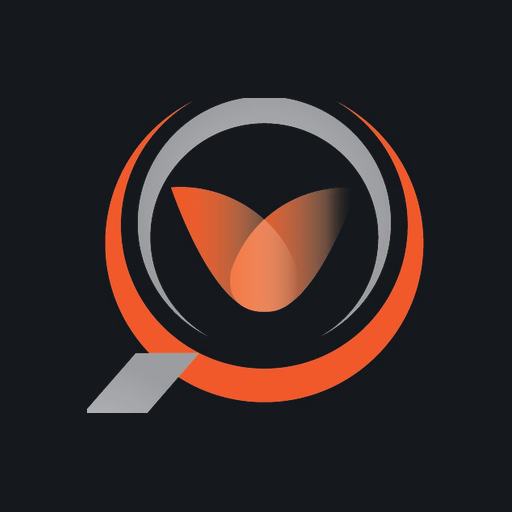
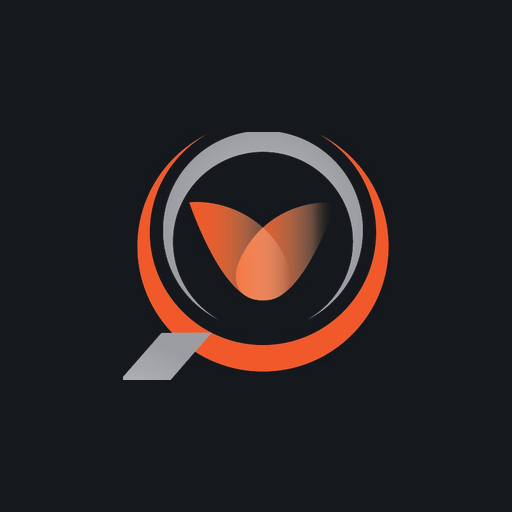
Add files via upload

Changed region(s): [[0.1562, 0.1875, 0.8438, 0.8125]]

diff --git a/index.html b/index.html
@@ -143,6 +143,14 @@
   .badge.confirmed{background:rgba(63,174,111,.18);color:#3fae6f}
   .badge.counted{background:rgba(239,108,46,.18);color:var(--accent)}
   .badge.pending{background:var(--chip-bg);color:var(--muted)}
+  .stat.top{border-color:var(--accent);background:linear-gradient(135deg,rgba(239,108,46,.14),transparent 65%),var(--panel)}
+  .stat .sub{font-size:12px;color:var(--muted);margin-top:3px}
+  .motivate{
+    background:linear-gradient(90deg,rgba(239,108,46,.16),transparent 70%),var(--panel);
+    border:1px solid var(--accent);border-radius:12px;padding:13px 16px;font-size:14px;margin:0 0 16px;
+  }
+  table.dash td.rank{font-size:16px;width:54px}
+  table.dash tr.leader td{background:linear-gradient(90deg,rgba(239,108,46,.10),transparent 70%)}
   .role-chip{
     font-size:11px;font-weight:700;text-transform:uppercase;letter-spacing:.6px;
     padding:5px 10px;border-radius:999px;background:var(--chip-bg);color:var(--muted);
@@ -217,6 +225,28 @@
     padding:14px 16px;transition:border-color .15s;
   }
   .step.done .step-card{border-color:rgba(63,174,111,.5)}
+  .step.next .node{background:var(--accent);border-color:var(--accent);color:#fff;animation:pulse-node 1.6s infinite}
+  .step.next .step-card{
+    border-color:var(--accent);
+    box-shadow:0 0 0 1px var(--accent), 0 8px 28px rgba(239,108,46,.25);
+    animation:pulse-card 1.8s infinite;
+  }
+  @keyframes pulse-card{
+    0%,100%{box-shadow:0 0 0 1px var(--accent), 0 8px 28px rgba(239,108,46,.22)}
+    50%{box-shadow:0 0 0 3px var(--accent), 0 8px 34px rgba(239,108,46,.42)}
+  }
+  @keyframes pulse-node{0%,100%{transform:scale(1)}50%{transform:scale(1.18)}}
+  .next-pill{
+    font-size:10px;font-weight:800;letter-spacing:.6px;padding:4px 9px;border-radius:999px;
+    background:var(--accent);color:#fff;white-space:nowrap;animation:pulse-node 1.6s infinite;
+  }
+  .next-banner{
+    display:flex;align-items:center;gap:9px;background:var(--panel);border:1px solid var(--line);
+    border-left:4px solid var(--muted);border-radius:12px;padding:12px 15px;font-size:13.5px;margin:0 0 16px;
+  }
+  .next-banner.mine{border-color:var(--accent);border-left-color:var(--accent);background:linear-gradient(90deg,rgba(239,108,46,.12),transparent 60%),var(--panel)}
+  .nb-dot{width:9px;height:9px;border-radius:50%;background:var(--muted);flex:none}
+  .next-banner.mine .nb-dot{background:var(--accent);animation:pulse-node 1.4s infinite}
   .step-top{display:flex;align-items:flex-start;gap:10px}
   .step-title{font-weight:700;font-size:15px;margin:0}
   .step-sub{color:var(--muted);font-size:12.5px;margin:3px 0 0}
@@ -339,8 +369,8 @@
       <div class="logo"><img id="barLogo" alt="Voltek" /></div>
       <h2>Voltek Sales Management System</h2>
       <nav class="topnav">
-        <button class="navbtn active" id="navHome">Home</button>
-        <button class="navbtn" id="navSales">Sales</button>
+        <button class="navbtn active" id="navHome">Dashboard</button>
+        <button class="navbtn" id="navSales">Sales Ops</button>
       </nav>
       <div class="spacer"></div>
       <span class="role-chip" id="roleChip">—</span>
@@ -365,7 +395,7 @@
     <!-- SALES LIST -->
     <div id="projectsView" class="hidden">
       <div class="section-head">
-        <h3>Sales</h3>
+        <h3>Sales Ops</h3>
         <div class="spacer"></div>
         <button class="btn sm" id="newProjectBtn">+ New sale</button>
       </div>
@@ -375,7 +405,7 @@
 
     <!-- TRACKER -->
     <div id="trackerView" class="hidden">
-      <button class="back-link" id="backBtn">← Back to sales</button>
+      <button class="back-link" id="backBtn">← Back to Sales Ops</button>
       <div class="tracker-head">
         <h3 id="trkName">—</h3>
         <span class="pcust" id="trkCust"></span>
@@ -561,11 +591,11 @@ async function loadProjects(){
 }
 function escapeHtml(s){ return (s||"").replace(/[&<>"']/g, m=>({'&':'&amp;','<':'&lt;','>':'&gt;','"':'&quot;',"'":'&#39;'}[m])); }
 
-async function createProject(customer, commission){
+async function createProject(customer, commission, assignee){
   const {error} = await sb.from("projects")
-    .insert({name:customer, customer, commission:commission||0, created_by:CURRENT_USER.username});
+    .insert({name:customer, customer, commission:commission||0, created_by:assignee||CURRENT_USER.username});
   if(error){ toast("Could not create sale: "+error.message, true); return; }
-  toast("Sale created");
+  toast("Sale created"+(assignee && assignee!==CURRENT_USER.username ? " and assigned to "+assignee : ""));
   loadProjects();
 }
 
@@ -603,23 +633,50 @@ async function loadDashboard(){
   let tCounted=0,tComm=0,tConf=0;
   Object.values(rows).forEach(r=>{ tCounted+=r.counted; tComm+=r.countedComm; tConf+=r.confirmed; });
 
+  const names=Object.keys(rows).sort((a,b)=>
+    (rows[b].countedComm-rows[a].countedComm) || (rows[b].counted-rows[a].counted));
+  const leader = names.length && (rows[names[0]].counted>0 || rows[names[0]].countedComm>0) ? names[0] : null;
+
   const stat=(k,v,accent)=>`<div class="stat"><div class="k">${k}</div><div class="v ${accent?'accent':''}">${v}</div></div>`;
   tot.innerHTML = stat("Sales counted", tCounted) +
                   stat("Commission counted", "RM "+tComm.toLocaleString(), true) +
-                  stat("Commission confirmed", tConf+" sales");
+                  stat("Commission confirmed", tConf+" sales") +
+                  (leader ? `<div class="stat top"><div class="k">🏆 Top performer</div><div class="v">${escapeHtml(leader)}</div><div class="sub">RM ${rows[leader].countedComm.toLocaleString()} · ${rows[leader].counted} sale${rows[leader].counted===1?"":"s"}</div></div>` : "");
 
   wrap.innerHTML="";
 
-  // ---- per-salesperson table ----
-  const names=Object.keys(rows).sort((a,b)=>rows[b].countedComm-rows[a].countedComm);
+  // personal motivation line for sales users
+  if(CURRENT_USER.role==="sales" && names.length){
+    const myIdx = names.indexOf(CURRENT_USER.username);
+    if(myIdx>-1){
+      const me=rows[CURRENT_USER.username];
+      let msg;
+      if(myIdx===0 && (me.counted>0||me.countedComm>0)){
+        msg=`🔥 You're <b>#1</b> with RM ${me.countedComm.toLocaleString()} — keep the lead!`;
+      } else if(me.counted>0||me.countedComm>0){
+        const ahead=rows[names[myIdx-1]];
+        const gap=Math.max(0, ahead.countedComm-me.countedComm);
+        msg=`💪 You're <b>#${myIdx+1}</b>. ${gap>0?("RM "+gap.toLocaleString()+" behind "+escapeHtml(names[myIdx-1])+" — one booking can close the gap!"):"You're tied — the next booking puts you ahead!"}`;
+      } else {
+        msg=`🚀 Your leaderboard spot is waiting — close your first booking to get on the board!`;
+      }
+      wrap.appendChild(el("div","motivate",msg));
+    }
+  }
+
+  // ---- leaderboard ----
   if(names.length){
-    wrap.appendChild(el("div","dash-subhead","By salesperson"));
+    wrap.appendChild(el("div","dash-subhead","🏁 Leaderboard"));
     const t=el("table","dash");
-    t.innerHTML="<tr><th>Salesperson</th><th class='num'>Sales counted</th><th class='num'>Commission (RM)</th><th class='num'>Confirmed</th><th class='num'>Confirmed (RM)</th></tr>";
-    names.forEach(n=>{
+    t.innerHTML="<tr><th>Rank</th><th>Salesperson</th><th class='num'>Sales counted</th><th class='num'>Commission (RM)</th><th class='num'>Confirmed</th><th class='num'>Confirmed (RM)</th></tr>";
+    const medals=["🥇","🥈","🥉"];
+    names.forEach((n,i)=>{
       const r=rows[n]; const me=n===CURRENT_USER.username?"me":"";
-      const tr=el("tr");
-      tr.innerHTML=`<td class="${me}">${escapeHtml(n)}</td>
+      const hasScore=r.counted>0||r.countedComm>0;
+      const rank = hasScore ? (medals[i]||("#"+(i+1))) : "—";
+      const tr=el("tr"); if(i===0&&hasScore) tr.className="leader";
+      tr.innerHTML=`<td class="rank">${rank}</td>
+        <td class="${me}">${escapeHtml(n)}</td>
         <td class="num">${r.counted}</td>
         <td class="num">${r.countedComm.toLocaleString()}</td>
         <td class="num">${r.confirmed}</td>
@@ -665,26 +722,33 @@ async function openProject(p){
   $("#deleteSaleBtn").classList.toggle("hidden", !canManage);
   await loadProgress();
   buildLaneTabs();
-  renderTimeline();
+  renderTimeline(true);
 }
 function editSaleModal(){
   const p=CURRENT_PROJECT;
+  const isAdmin = CURRENT_USER.role==="admin";
   const body=el("div");
   body.innerHTML=`
     <div class="field"><label>Customer name</label><input id="esCust" value="${escapeHtml(p.name||"")}"/></div>
-    <div class="field"><label>Commission (RM)</label><input id="esComm" type="number" min="0" step="0.01" value="${p.commission!=null?p.commission:0}"/></div>`;
+    <div class="field"><label>Commission (RM)</label><input id="esComm" type="number" min="0" step="0.01" value="${p.commission!=null?p.commission:0}"/></div>
+    ${isAdmin?`<div class="field"><label>Assigned salesperson</label>${salesSelectHtml("esAssign")}</div>`:""}`;
   const foot=el("div"); foot.style.display="flex"; foot.style.gap="10px";
   const cancel=el("button","btn ghost sm","Cancel"); cancel.onclick=closeModal;
   const save=el("button","btn sm","Save changes");
   save.onclick=async()=>{
     const c=$("#esCust").value.trim(); if(!c){toast("Enter a customer name",true);return;}
     const comm=parseFloat($("#esComm").value)||0;
-    const {data,error}=await sb.from("projects").update({name:c,customer:c,commission:comm}).eq("id",p.id).select().single();
+    const patch={name:c,customer:c,commission:comm};
+    if(isAdmin && $("#esAssign")) patch.created_by=$("#esAssign").value;
+    const {data,error}=await sb.from("projects").update(patch).eq("id",p.id).select().single();
     if(error){toast("Save failed: "+error.message,true);return;}
-    CURRENT_PROJECT=data; $("#trkName").textContent=data.name; closeModal(); toast("Sale updated"); renderTimeline();
+    CURRENT_PROJECT=data; $("#trkName").textContent=data.name;
+    $("#trkCust").textContent = data.created_by ? "· Salesperson: "+data.created_by : "";
+    closeModal(); toast("Sale updated"); renderTimeline();
   };
   foot.appendChild(cancel); foot.appendChild(save);
   modal("Edit sale", body, foot);
+  if(isAdmin) fillSalesSelect("esAssign", p.created_by);
 }
 async function deleteSale(){
   const p=CURRENT_PROJECT;
@@ -727,24 +791,47 @@ function updateOverall(){
   $("#trkBarText").textContent = `${done} of ${total} steps complete`;
   $("#trkPct").textContent = pct+"%";
 }
-function renderTimeline(){
+function nextPendingStepNo(){
+  for(const s of STEPS){ if(!(PROGRESS[s.no] && PROGRESS[s.no].done)) return s.no; }
+  return null;
+}
+function renderTimeline(scrollToNext){
   updateOverall();
   const tl = $("#timeline"); tl.innerHTML="";
   const steps = stepsForView();
   if(!steps.length){ tl.innerHTML="<div class='empty'>No steps for your role in this view.</div>"; return; }
+
+  const nextNo = nextPendingStepNo();
+  const nextStep = STEPS.find(x=>x.no===nextNo);
+  const myTurn = nextStep && LANE_ROLE[nextStep.lane]===CURRENT_USER.role;
+
+  // action banner above timeline
+  const oldBanner=$("#nextBanner"); if(oldBanner) oldBanner.remove();
+  if(nextStep){
+    const bn=el("div","next-banner"+(myTurn?" mine":"")); bn.id="nextBanner";
+    bn.innerHTML = myTurn
+      ? `<span class="nb-dot"></span><b>Your turn:</b>&nbsp;${escapeHtml(nextStep.title)} — this step is waiting on ${LANE_LABEL[nextStep.lane]}.`
+      : `<span class="nb-dot"></span>Next step: <b>&nbsp;${escapeHtml(nextStep.title)}</b>&nbsp;(${LANE_LABEL[nextStep.lane]})`;
+    tl.parentNode.insertBefore(bn, tl);
+  }
+
+  let nextCard=null;
   steps.forEach(s=>{
     const prog = PROGRESS[s.no] || {};
     const done = !!prog.done;
-    const wrap = el("div","step"+(done?" done":""));
-    const node = el("div","node", done?"✓":"");
+    const isNext = s.no===nextNo;
+    const wrap = el("div","step"+(done?" done":"")+(isNext?" next":""));
+    const node = el("div","node", done?"✓":(isNext?"●":""));
     wrap.appendChild(node);
     const card = el("div","step-card");
+    if(isNext) nextCard=wrap;
 
     // header
     const top = el("div","step-top");
     const tt = el("div","",`<p class="step-title">${escapeHtml(s.title)}</p><p class="step-sub">${escapeHtml(s.sub)}</p>`);
     top.appendChild(tt);
     const spacer = el("div"); spacer.style.flex="1"; top.appendChild(spacer);
+    if(isNext) top.appendChild(el("span","next-pill","NEXT STEP"));
     top.appendChild(el("span","lane-pill "+s.lane, LANE_LABEL[s.lane]));
     card.appendChild(top);
 
@@ -790,6 +877,7 @@ function renderTimeline(){
     wrap.appendChild(card);
     tl.appendChild(wrap);
   });
+  if(scrollToNext && nextCard){ setTimeout(()=>{ try{nextCard.scrollIntoView({behavior:"smooth",block:"center"});}catch(e){} }, 150); }
 }
 
 function renderUpload(body, s, prog, done){
@@ -843,7 +931,7 @@ async function upsertProgress(step_no, patch){
 }
 async function toggleDone(step_no, val){
   const r = await upsertProgress(step_no, {done:val});
-  if(r){ toast(val?"Marked done":"Marked not done"); if(val) maybeNotifyNext(step_no); renderTimeline();
+  if(r){ toast(val?"Marked done":"Marked not done"); if(val) maybeNotifyNext(step_no); renderTimeline(val);
     if(step_no===BOOKING_STEP||step_no===FINAL_STEP){/* affects dashboard */} }
 }
 async function handleUpload(step_no, file){
@@ -856,7 +944,7 @@ async function handleUpload(step_no, file){
   if(upErr){ toast("Upload failed: "+upErr.message, true); return; }
   const {data:pub} = sb.storage.from(BUCKET).getPublicUrl(path);
   const r = await upsertProgress(step_no, {done:true, file_url:pub.publicUrl, file_name:file.name});
-  if(r){ toast("Uploaded & synced"); maybeNotifyNext(step_no); renderTimeline(); }
+  if(r){ toast("Uploaded & synced"); maybeNotifyNext(step_no); renderTimeline(true); }
 }
 
 /* ============ NOTIFICATIONS ============ */
@@ -933,18 +1021,39 @@ function modal(title, bodyNode, footNode){
   bg.appendChild(m); $("#modalRoot").appendChild(bg);
 }
 
+async function getSalesUsers(){
+  const {data} = await sb.from("users").select("username").eq("role","sales").order("username");
+  return (data||[]).map(u=>u.username);
+}
+function salesSelectHtml(id, selected, includeSelf){
+  return `<select id="${id}" style="width:100%;padding:12px 13px;border-radius:10px;border:1px solid var(--field-line);background:var(--field);color:var(--text)"></select>`;
+}
+async function fillSalesSelect(id, selected){
+  const sel=$("#"+id); if(!sel) return;
+  const list=await getSalesUsers();
+  sel.innerHTML="";
+  if(CURRENT_USER.role==="admin" && !list.includes(CURRENT_USER.username)){
+    const o=document.createElement("option"); o.value=CURRENT_USER.username; o.textContent=CURRENT_USER.username+" (me, admin)"; sel.appendChild(o);
+  }
+  list.forEach(u=>{ const o=document.createElement("option"); o.value=u; o.textContent=u; sel.appendChild(o); });
+  if(selected) sel.value=selected;
+}
 function newProjectModal(){
+  const isAdmin = CURRENT_USER.role==="admin";
   const body=el("div");
   body.innerHTML=`
     <div class="field"><label>Customer name</label><input id="npCust" placeholder="e.g. Ahmad bin Ali"/></div>
-    <div class="field"><label>Commission (RM, optional)</label><input id="npComm" type="number" min="0" step="0.01" placeholder="e.g. 1500"/></div>`;
+    <div class="field"><label>Commission (RM, optional)</label><input id="npComm" type="number" min="0" step="0.01" placeholder="e.g. 1500"/></div>
+    ${isAdmin?`<div class="field"><label>Assign to salesperson</label>${salesSelectHtml("npAssign")}</div>`:""}`;
   const foot=el("div"); foot.style.display="flex"; foot.style.gap="10px";
   const cancel=el("button","btn ghost sm","Cancel"); cancel.onclick=closeModal;
   const save=el("button","btn sm","Create sale");
   save.onclick=async()=>{ const c=$("#npCust").value.trim(); if(!c){toast("Enter a customer name",true);return;}
-    await createProject(c, parseFloat($("#npComm").value)||0); closeModal(); };
+    const assignee = isAdmin && $("#npAssign") ? $("#npAssign").value : CURRENT_USER.username;
+    await createProject(c, parseFloat($("#npComm").value)||0, assignee); closeModal(); };
   foot.appendChild(cancel); foot.appendChild(save);
   modal("New sale", body, foot);
+  if(isAdmin) fillSalesSelect("npAssign", CURRENT_USER.username);
 }
 
 /* ---- SETTINGS ---- */